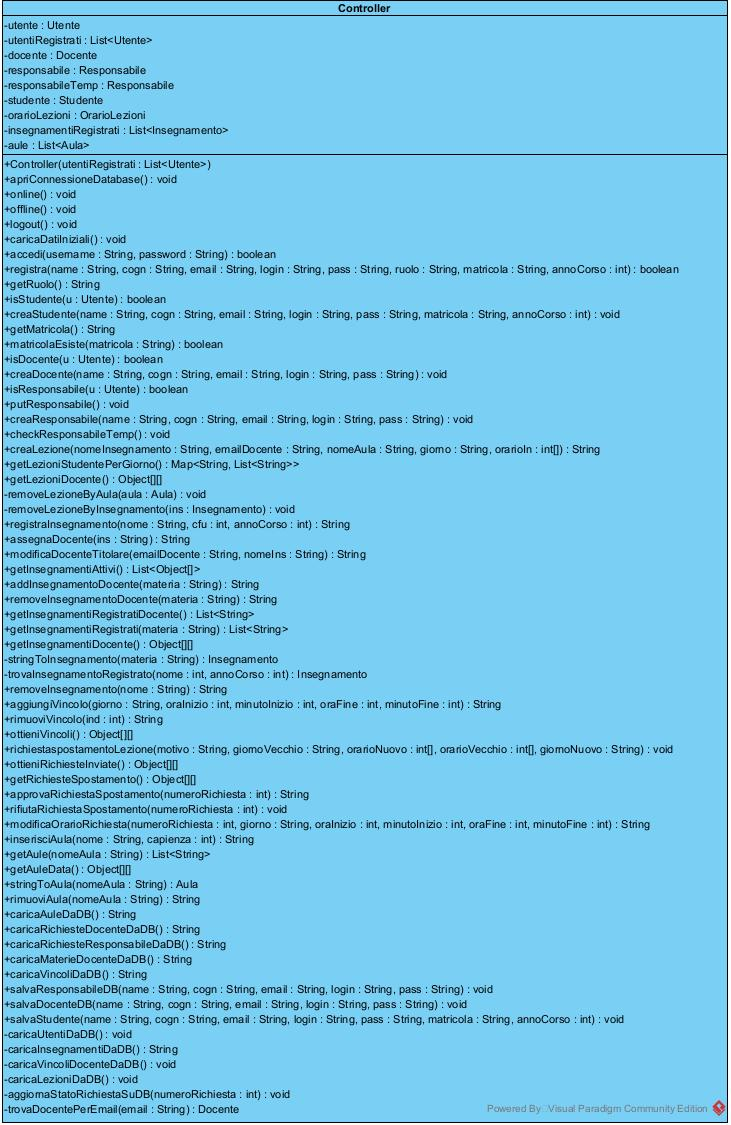
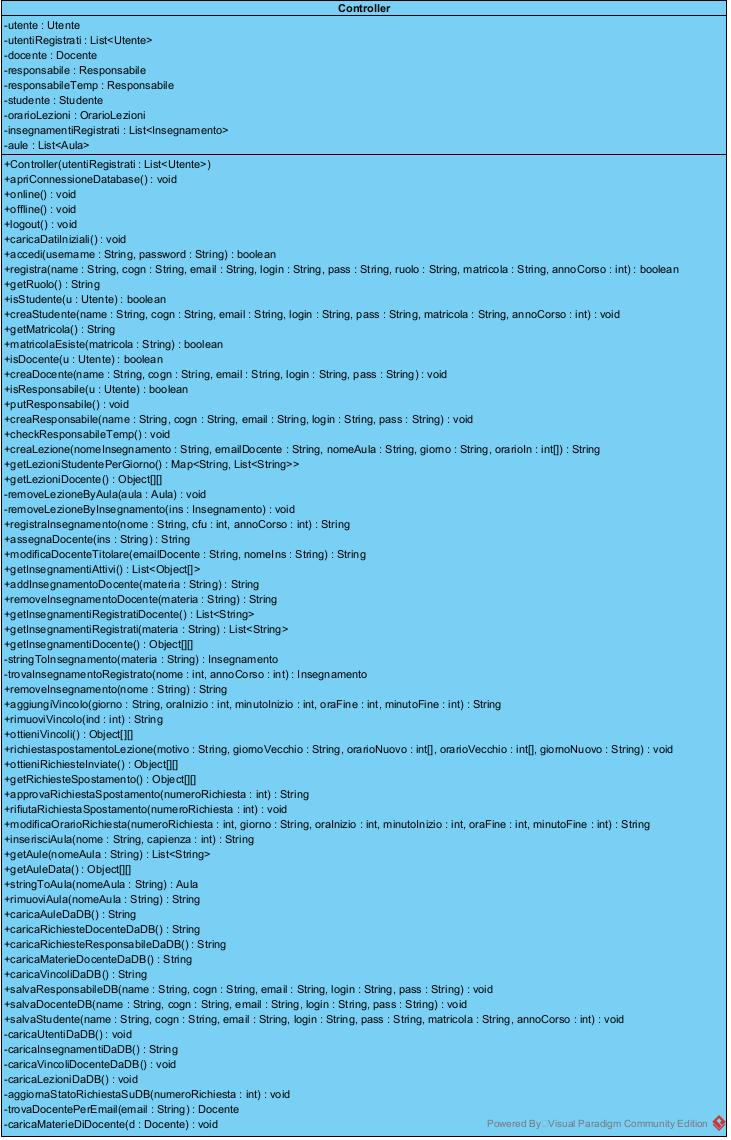
Adesso le materie vengono caricate quando il responsabile fa un assegnazione

Changed region(s): [[0.0, 0.0, 1.0, 1.0]]

diff --git a/src/main/java/controller/Controller.java b/src/main/java/controller/Controller.java
@@ -1487,6 +1487,27 @@ public class  Controller {
 		}
 		docente.caricaVincoliInDocente(vs);
 	}
+	/**Carica dal database le materie del docente indicato (tabella
+	 * {@code docenteinsegnamento}) e le mette nella sua lista in memoria.
+	 * Serve quando l'utente loggato NON è quel docente (es. il responsabile
+	 * assegna un titolare): in quel caso la lista in memoria è vuota perché
+	 * {@link #caricaMaterieDocenteDaDB()} viene invocato solo al login del docente.
+	 */
+	private void caricaMaterieDiDocente(Docente d) throws SQLException {
+		if(!ConnessioneDatabase.getStatus()){return;}
+		DocenteDAO docenteDAO = new DocentePostgresDao();
+		ArrayList<String> nomiMaterie = new ArrayList<>();
+		docenteDAO.leggiMaterieDocenteDB(d.getmail(), nomiMaterie);
+		List<Insegnamento> materie = new ArrayList<>();
+		for (String nome : nomiMaterie) {
+			Insegnamento i = stringToInsegnamento(nome);
+			if (i != null) {
+				materie.add(i);
+			}
+		}
+		d.caricaInsegnamentiInDocente(materie);
+	}
+
 	public String assegnaDocente(String ins,String email){
 		Docente d=null;
 		for (Utente u : utentiRegistrati) {
@@ -1502,9 +1523,12 @@ public class  Controller {
 			return "Errore si sta provando ad assegnare ad un insegnamento non esistente";
 		}
 		try{
+			//Ricarica dal DB le materie del docente: la sua lista in memoria
+			//è vuota se non è lui l'utente loggato (vedi caricaMaterieDocenteDaDB)
+			caricaMaterieDiDocente(d);
 			//Controlla se il docente puo insegnare questa materia
-		Insegnamento insTemp= new Insegnamento(insegnamento);
-    insTemp.setDocente(d);
+			Insegnamento insTemp= new Insegnamento(insegnamento);
+			insTemp.setDocente(d);
 			if(ConnessioneDatabase.getStatus()) {
 				InsegnamentoPostgresDAO insDAO = new InsegnamentoPostgresDAO();
 				insDAO.assegnaDocenteTitolare(email,ins);
@@ -1534,24 +1558,26 @@ public class  Controller {
 			if(ins==null) throw new NullPointerException("Impossibile modificare il docente, l'insegnamento non esiste");
 			int cfu= ins.getNumeroCFU();
 			int annoCorso= ins.getAnnoCorso();
+			//Ricarica dal DB le materie del docente (lista vuota se non è lui il loggato)
+			caricaMaterieDiDocente(d);
 			//Controlla se il docente puo insegnare questa materia
 			Insegnamento insTemp= new Insegnamento(ins);
 			insTemp.setDocente(d);
-            if(ConnessioneDatabase.getStatus()){
-			InsegnamentoPostgresDAO insDAO= new InsegnamentoPostgresDAO();
-			insDAO.rimuoviInsegnamentoDB(nomeIns);
-			insDAO.salvaInsegnamento(nomeIns, annoCorso,cfu);
-			insDAO.assegnaDocenteTitolare(emailDocente,nomeIns);
+			if(ConnessioneDatabase.getStatus()){
+				InsegnamentoPostgresDAO insDAO= new InsegnamentoPostgresDAO();
+				insDAO.rimuoviInsegnamentoDB(nomeIns);
+				insDAO.salvaInsegnamento(nomeIns, annoCorso,cfu);
+				insDAO.assegnaDocenteTitolare(emailDocente,nomeIns);
 			}
 
 			removeLezioneByInsegnamento(ins);
 			ins.setDocente(d);
 
 
-        } catch (SQLException e) {
+		} catch (SQLException e) {
 			logger.warning(e.getMessage());
-            return "Impossibile modificare il docente titolare a causa del DB";
-        }catch (Exception e) {
+			return "Impossibile modificare il docente titolare a causa del DB";
+		}catch (Exception e) {
 			logger.warning(e.getMessage());
 			return e.getMessage();
 		}